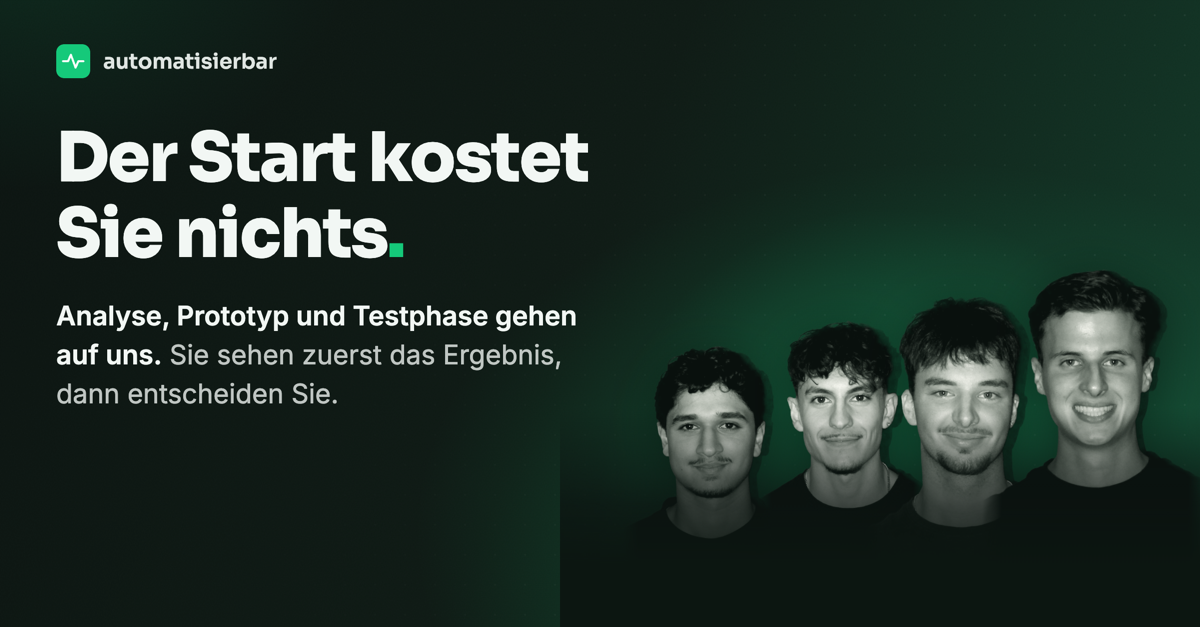
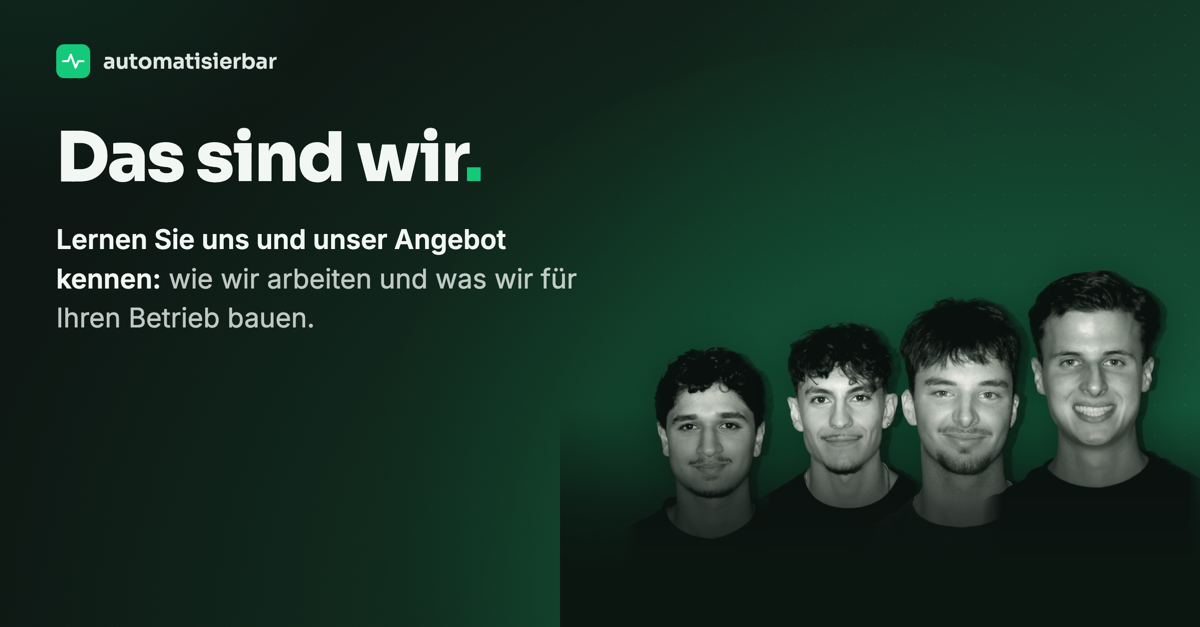
cockpit: Team-Karte final (Das sind wir, Über-uns-Copy statt Angebots-Copy, weiche Lichtkanten)

diff --git a/static/angebot.html b/static/angebot.html
@@ -4,18 +4,18 @@
 <meta charset="utf-8">
 <meta name="viewport" content="width=device-width, initial-scale=1">
 <meta name="robots" content="noindex">
-<title>Unser Angebot · Automatisierbar</title>
+<title>Das sind wir · Automatisierbar</title>
 <meta property="og:type" content="website">
 <meta property="og:site_name" content="Automatisierbar">
-<meta property="og:title" content="Der Start kostet Sie nichts">
-<meta property="og:description" content="Analyse, Prototyp und Testphase gehen auf uns. Sie sehen zuerst das Ergebnis, dann entscheiden Sie.">
+<meta property="og:title" content="Das sind wir">
+<meta property="og:description" content="Lernen Sie uns und unser Angebot kennen: wie wir arbeiten und was wir für Ihren Betrieb bauen.">
 <meta property="og:url" content="https://cockpit.automatisierbar.ch/static/angebot.html">
 <meta property="og:image" content="https://cockpit.automatisierbar.ch/static/og/angebot-card.png">
 <meta property="og:image:width" content="1200">
 <meta property="og:image:height" content="627">
 <meta name="twitter:card" content="summary_large_image">
-<meta name="twitter:title" content="Der Start kostet Sie nichts">
-<meta name="twitter:description" content="Analyse, Prototyp und Testphase gehen auf uns. Sie sehen zuerst das Ergebnis, dann entscheiden Sie.">
+<meta name="twitter:title" content="Das sind wir">
+<meta name="twitter:description" content="Lernen Sie uns und unser Angebot kennen: wie wir arbeiten und was wir für Ihren Betrieb bauen.">
 <meta name="twitter:image" content="https://cockpit.automatisierbar.ch/static/og/angebot-card.png">
 <meta http-equiv="refresh" content="0; url=https://automatisierbar.ch">
 <script>window.location.replace("https://automatisierbar.ch");</script>
